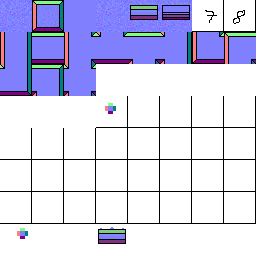
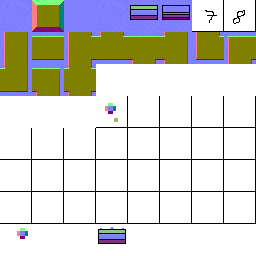
added lifebar, copy&paste'd new tiles, adjusted normal map

Changed region(s): [[0.0, 0.0, 1.0, 0.375], [0.4375, 0.4375, 0.4688, 0.5]]

diff --git a/Game++ Tile/src/de/nerogar/game/entity/EntityEnemy.java b/Game++ Tile/src/de/nerogar/game/entity/EntityEnemy.java
@@ -1,7 +1,9 @@
 package de.nerogar.game.entity;
 
 import de.nerogar.game.Map;
+import de.nerogar.game.RenderHelper;
 import de.nerogar.game.Vector;
+import static org.lwjgl.opengl.GL11.*;
 
 public abstract class EntityEnemy extends Entity {
 
@@ -25,5 +27,17 @@ public abstract class EntityEnemy extends Entity {
 	public void update(float time) {
 		super.update(time);
 		damageCooldown -= time;
+	}
+
+	@Override
+	public void renderAfterShader() {
+
+		float healthPercent = (float) health / maxHealth;
+		glColor3f(0, 0.1f, 0.1f);
+		RenderHelper.renderLine((pos.getX() - map.getOffsX()) * Map.TILE_RENDER_SIZE, (pos.getY() - map.getOffsY()) * Map.TILE_RENDER_SIZE, (pos.getX() - map.getOffsX() + dimension.getX()) * Map.TILE_RENDER_SIZE, (pos.getY() - map.getOffsY()) * Map.TILE_RENDER_SIZE, 2);
+		glColor3f(0.5f, 0, 0);
+		RenderHelper.renderLine((pos.getX() - map.getOffsX()) * Map.TILE_RENDER_SIZE, (pos.getY() - map.getOffsY()) * Map.TILE_RENDER_SIZE, (pos.getX() - map.getOffsX() + dimension.getX() * healthPercent) * Map.TILE_RENDER_SIZE, (pos.getY() - map.getOffsY()) * Map.TILE_RENDER_SIZE, 2);
+		glColor3f(1, 1, 1);
+
 	}
 }

diff --git a/Game++ Tile/src/de/nerogar/game/pathfinder/Node.java b/Game++ Tile/src/de/nerogar/game/pathfinder/Node.java
@@ -32,7 +32,7 @@ public class Node {
 			Position diff = goal.subtracted(position);
 			float pointerCost = (pointer == null) ? 0 : pointer.getTotalCost(goal);
 			//         recursion      base   pythagoras        path varying                              sqrt(2)
-			costCalc = pointerCost + (cost + diff.getValue() + random.nextFloat() * 5) * (isDiagonal() ? 1.41421356f : 1);
+			costCalc = pointerCost + (cost + diff.getValue() + random.nextFloat() * 50) * (isDiagonal() ? 1.41421356f : 1);
 		}
 		return costCalc;
 	}

diff --git a/Game++ Tile/src/de/nerogar/game/graphics/gui/GLobbyClientConnect.java b/Game++ Tile/src/de/nerogar/game/graphics/gui/GLobbyClientConnect.java
@@ -53,7 +53,6 @@ public class GLobbyClientConnect extends Gui {
 				System.out.println(packets.size() + " packets");
 			for (Packet packet : packets) {
 				if (packet instanceof PacketStartGame) {
-					System.out.println("PacketStartGame!!!!!!!!!!!!!!!!!!");
 					PacketStartGame startgamepacket = (PacketStartGame) packet;
 					Map map = MapLoader.loadMap(Map.CLIENT_WORLD, "map.png");
 					//Game.game.client = client;

diff --git a/Game++ Tile/src/de/nerogar/game/RenderHelper.java b/Game++ Tile/src/de/nerogar/game/RenderHelper.java
@@ -25,14 +25,11 @@ public class RenderHelper {
 		enableAlphaMask();
 		glDisable(GL_TEXTURE_2D);
 		glLineWidth(width);
-		glColor4f(1, 0.5f, 0, 0.2f);
 		glBegin(GL_LINES);
-
-		glVertex3f(x1, y1, -1);
-		glVertex3f(x2, y2, -1);
+		glVertex2f(x1, y1);
+		glVertex2f(x2, y2);
 
 		glEnd();
-		glColor3f(1, 1, 1);
 		glEnable(GL_TEXTURE_2D);
 	}
 

diff --git a/Game++ Tile/src/de/nerogar/game/Map.java b/Game++ Tile/src/de/nerogar/game/Map.java
@@ -340,6 +340,11 @@ public class Map {
 		RenderHelper.disableAlpha();
 
 		shader.deactivate();
+		
+		// render additionals without shader
+		for (Entity entity : entities.values()) {
+			entity.renderAfterShader();
+		}
 
 	}
 

diff --git a/Game++ Tile/src/de/nerogar/game/entity/Entity.java b/Game++ Tile/src/de/nerogar/game/entity/Entity.java
@@ -143,4 +143,8 @@ public abstract class Entity {
 		MAX_ID++;
 		return MAX_ID;
 	}
+
+	public void renderAfterShader() {
+		
+	}
 }
